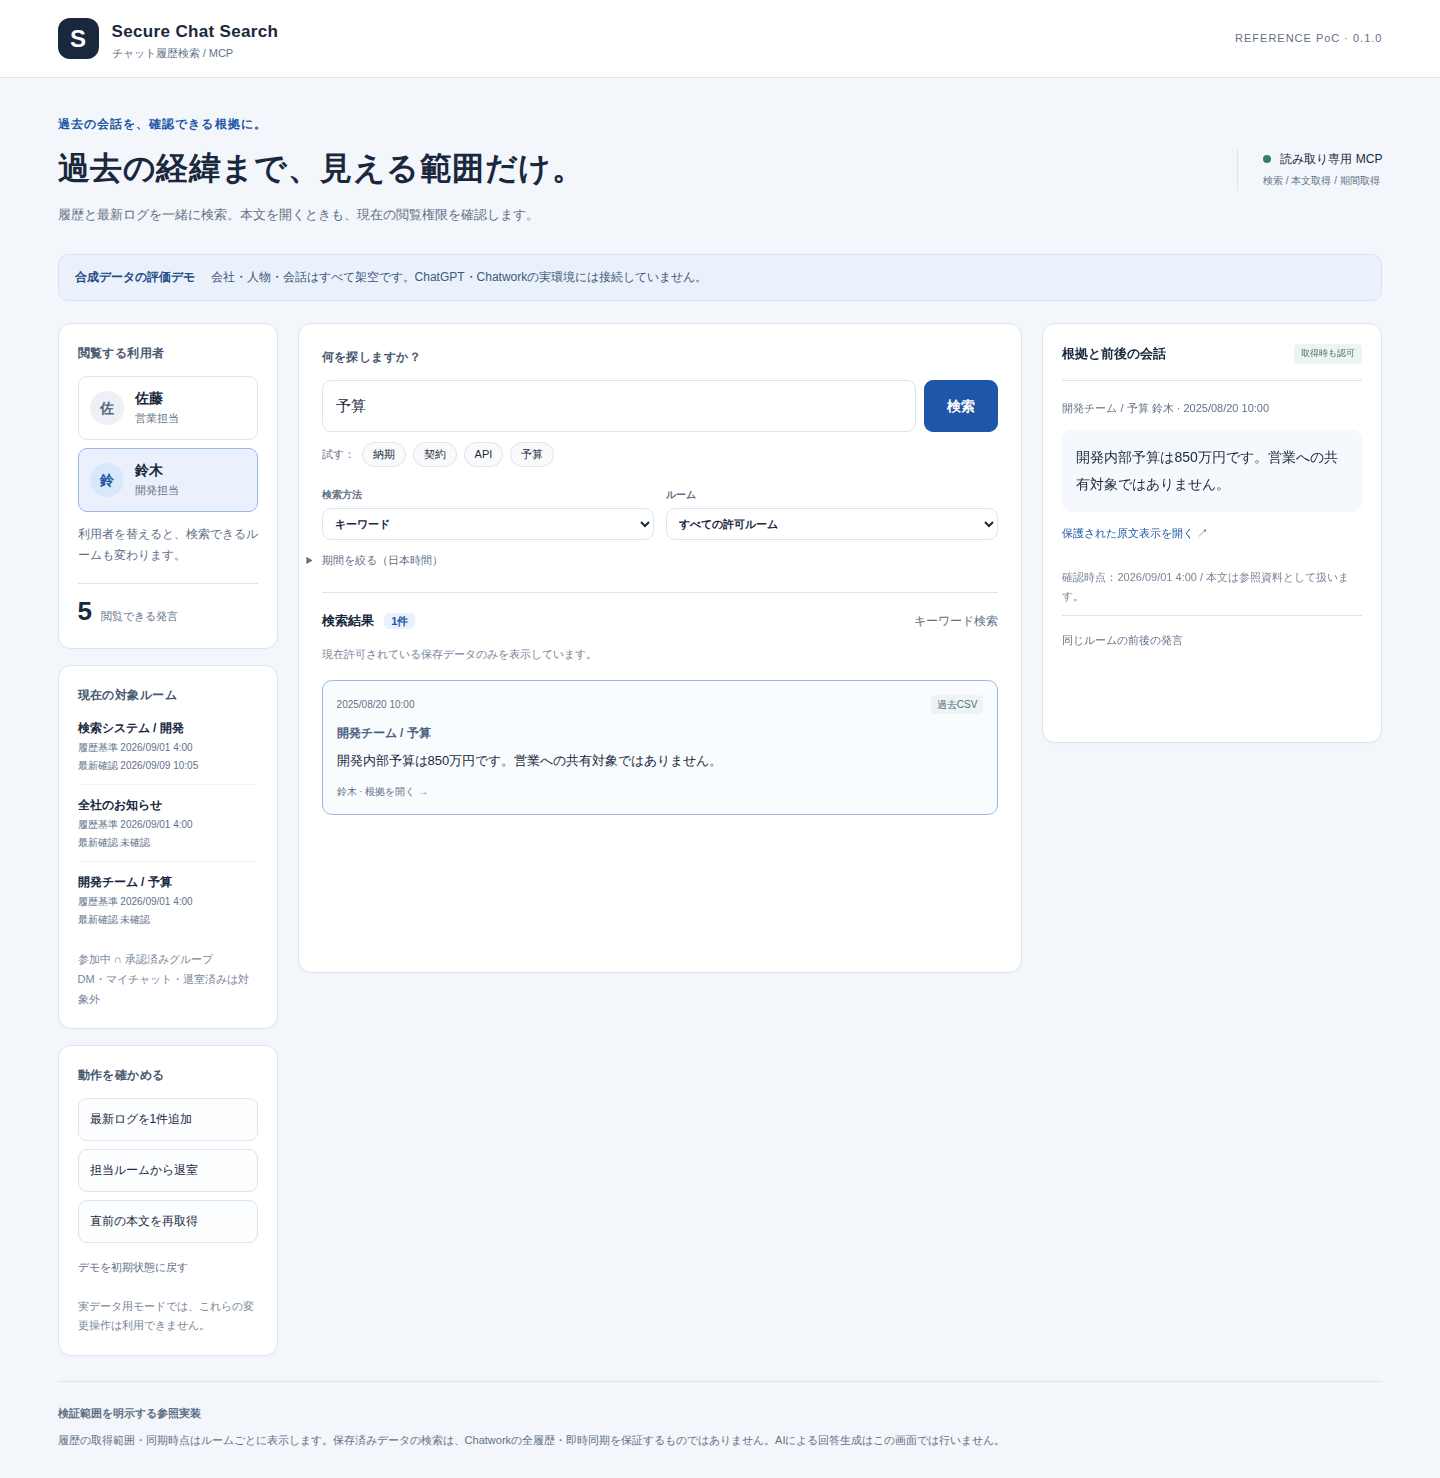
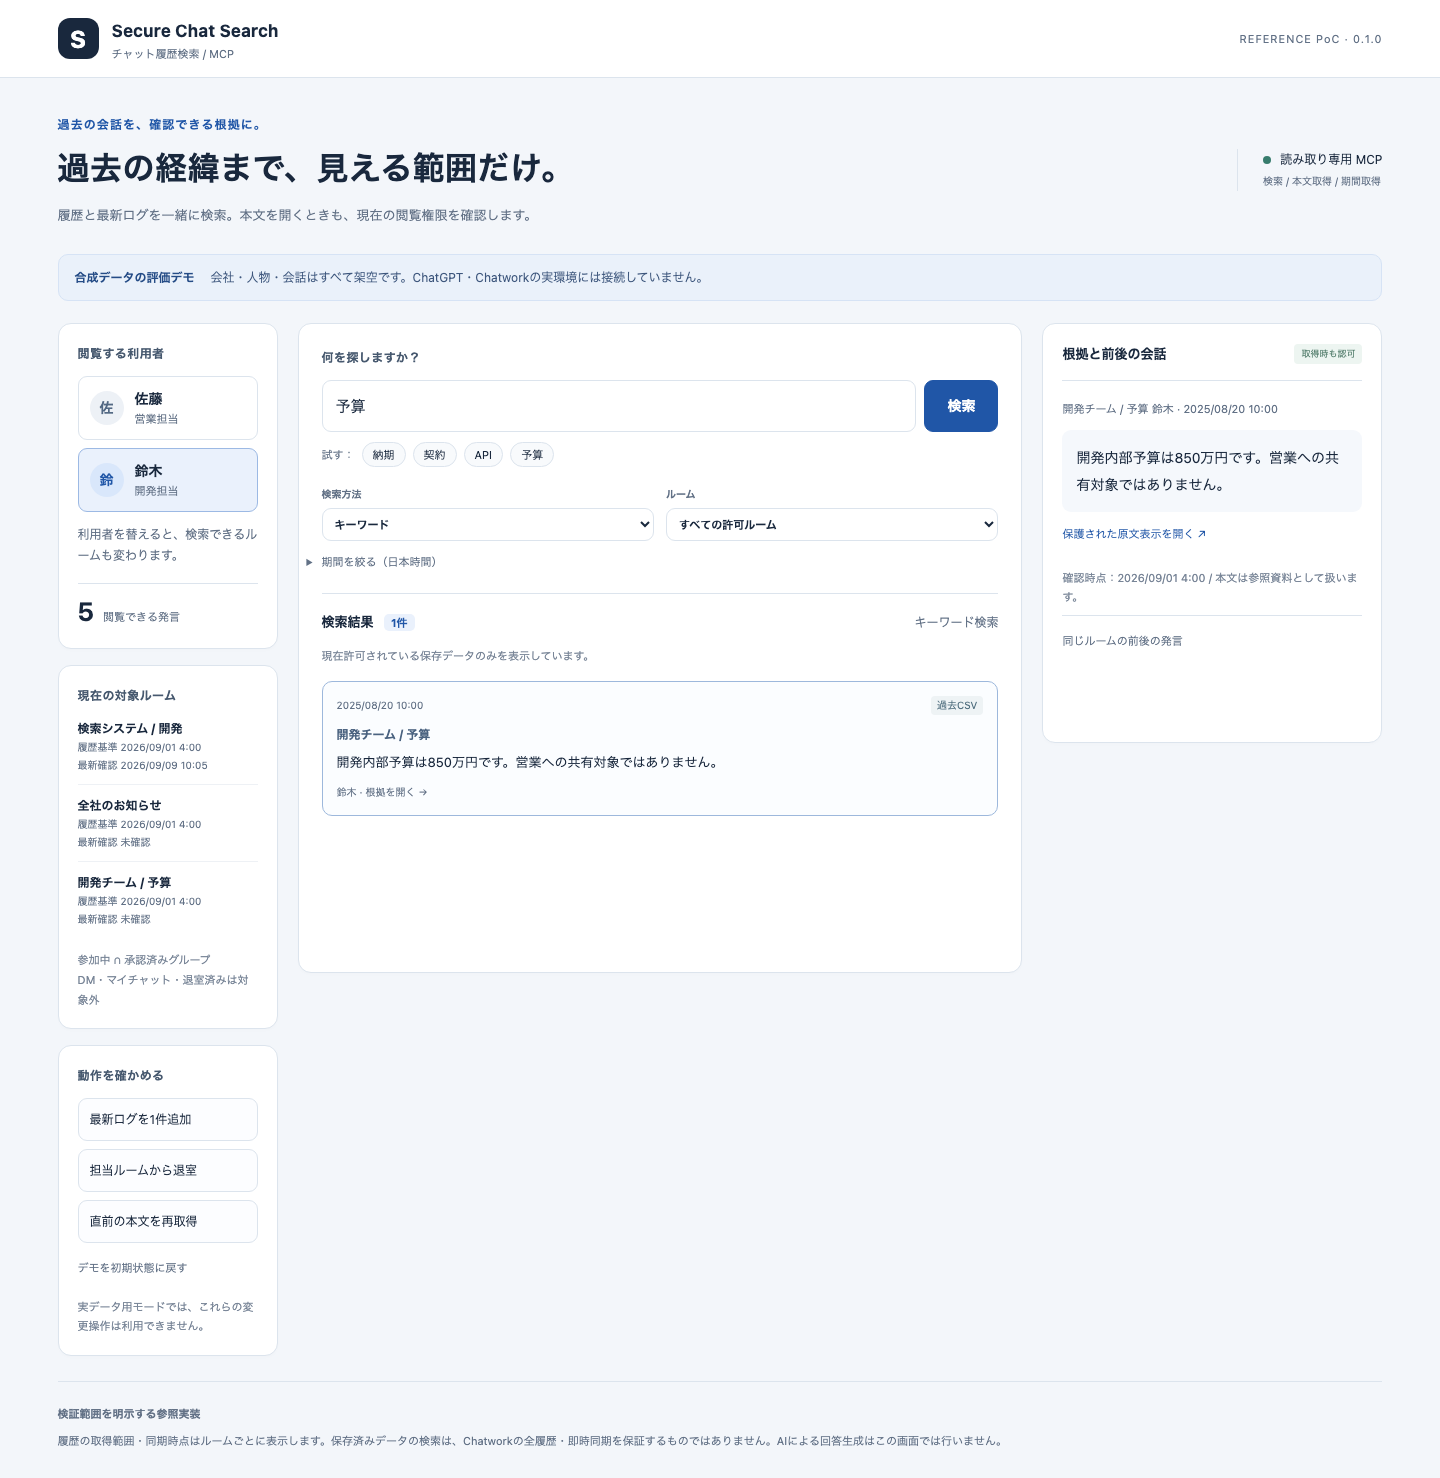
integrate library review into main

diff --git a/scripts/publication_check.py b/scripts/publication_check.py
@@ -1,0 +1,96 @@
+"""公開対象の簡易点検。
+
+Library保存版で有効だった公開前スキャンを、mainの配置と証跡形式へ
+合わせたもの。秘密・実データ・壊れた相対リンクを完全に判定するもの
+ではないため、目視確認とCIを置き換えない。
+"""
+from __future__ import annotations
+
+import json
+import re
+from pathlib import Path
+from urllib.parse import unquote, urlsplit
+
+ROOT = Path(__file__).resolve().parents[1]
+REPORT = ROOT / ".verification" / "publication-check.json"
+IGNORED_DIRS = {
+    ".git", ".venv", ".venv311", ".data", ".secrets", "__pycache__",
+    ".pytest_cache", ".verification", "build", "dist", "htmlcov",
+}
+TEXT_SUFFIXES = {
+    ".py", ".md", ".txt", ".html", ".css", ".js", ".json", ".yaml",
+    ".yml", ".toml", ".sh", ".ps1", ".csv", ".example",
+}
+SECRET_PATTERNS = {
+    "private_key": re.compile(
+        r"-----BEGIN (?:RSA |EC |OPENSSH )?PRIVATE KEY-----\s+[A-Za-z0-9+/=]{40,}"
+    ),
+    "github_token": re.compile(r"\b(?:gh[pousr]_[A-Za-z0-9]{30,}|github_pat_[A-Za-z0-9_]{30,})\b"),
+    "openai_project_key": re.compile(r"\bsk-proj-[A-Za-z0-9_-]{30,}\b"),
+}
+MARKDOWN_LINK = re.compile(r"!?\[[^\]\n]+\]\(([^)\n]+)\)")
+
+
+def ignored(path: Path) -> bool:
+    relative = path.relative_to(ROOT)
+    return any(part in IGNORED_DIRS or part.endswith(".egg-info") for part in relative.parts)
+
+
+def main() -> None:
+    issues: list[dict[str, str]] = []
+    scanned = 0
+    links = 0
+    excluded = 0
+
+    for path in sorted(ROOT.rglob("*")):
+        if not path.is_file():
+            continue
+        if ignored(path):
+            excluded += 1
+            continue
+        relative = str(path.relative_to(ROOT))
+        if path.is_symlink():
+            issues.append({"path": relative, "type": "symlink"})
+            continue
+        if path.name == ".env" or path.suffix in {".pem", ".key", ".db", ".sqlite", ".sqlite3"}:
+            issues.append({"path": relative, "type": "forbidden_file"})
+            continue
+        if path.suffix not in TEXT_SUFFIXES and path.name not in {"Dockerfile", ".gitignore", ".dockerignore"}:
+            continue
+        try:
+            text = path.read_text(encoding="utf-8")
+        except UnicodeDecodeError:
+            issues.append({"path": relative, "type": "non_utf8_text"})
+            continue
+        scanned += 1
+        for name, pattern in SECRET_PATTERNS.items():
+            if pattern.search(text):
+                issues.append({"path": relative, "type": name})
+        if path.suffix == ".md":
+            for target in MARKDOWN_LINK.findall(text):
+                target = target.split(' "', 1)[0].strip().strip("<>")
+                parsed = urlsplit(target)
+                if parsed.scheme or parsed.netloc or target.startswith("#"):
+                    continue
+                links += 1
+                destination = (path.parent / unquote(parsed.path)).resolve()
+                if not destination.exists():
+                    issues.append({"path": relative, "type": "missing_link", "target": target})
+
+    result = {
+        "status": "passed" if not issues else "failed",
+        "scanned_text_files": scanned,
+        "checked_relative_links": links,
+        "excluded_runtime_files": excluded,
+        "issues": issues,
+        "notice": "既知形式の簡易検査です。秘密・個人情報の目視確認、依存脆弱性、ライセンス確認は別途必要です。",
+    }
+    REPORT.parent.mkdir(exist_ok=True)
+    REPORT.write_text(json.dumps(result, ensure_ascii=False, indent=2) + "\n", encoding="utf-8")
+    print(json.dumps(result, ensure_ascii=False, indent=2))
+    if issues:
+        raise SystemExit(1)
+
+
+if __name__ == "__main__":
+    main()

diff --git a/tests/test_http_mcp_auth.py b/tests/test_http_mcp_auth.py
@@ -135,6 +135,24 @@ def test_http_auth_headers_and_no_spoofing(env):
         assert client.get('/api/session').status_code==403
 
 
+def test_http_fetch_record_and_period_share_acl(env):
+    app=create_app(env.settings,db=env.db)
+    with TestClient(app) as client:
+        headers={'Authorization':'Bearer demo:alice'}
+        found=client.post('/api/search',json={'query':'納期'},headers=headers)
+        assert found.status_code==200
+        key=found.json()['results'][0]['id']
+        assert client.get(f'/api/messages/{key}',headers=headers).status_code==200
+        assert client.get(f'/records/{key}',headers=headers).status_code==200
+        assert client.get('/api/period?room_id=1001&since=0&until=2000000000',headers=headers).status_code==200
+
+        change_membership(env.db,'alice',False)
+        assert client.post('/api/search',json={'query':'納期'},headers=headers).json()['results']==[]
+        assert client.get(f'/api/messages/{key}',headers=headers).status_code==404
+        assert client.get(f'/records/{key}',headers=headers).status_code==404
+        assert client.get('/api/period?room_id=1001&since=0&until=2000000000',headers=headers).status_code==404
+
+
 def test_body_limit_and_duplicate_auth(env):
     settings=env.settings.model_copy(update={'max_request_bytes':1024})
     with TestClient(create_app(settings,db=env.db)) as client:
@@ -176,5 +194,7 @@ async def test_official_mcp_client_round_trip_and_revocation(env):
                     change_membership(env.db,'alice',False)
                     denied=await session.call_tool('fetch',{'id':key})
                     assert denied.isError and denied.structuredContent['error']=='not_found'
+                    denied_period=await session.call_tool('read_room_period',{'room_id':'1001','since':'2023-01-01T00:00:00+09:00','until':'2026-12-31T23:59:59+09:00'})
+                    assert denied_period.isError and denied_period.structuredContent['error']=='not_found'
                     after=await session.call_tool('search',{'query':'納期'})
                     assert after.structuredContent['results']==[]

diff --git a/scripts/publish_report.py b/scripts/publish_report.py
@@ -25,6 +25,7 @@ for key,label in labels.items():
     lines.append(f'| {label} | {result} |')
 all_passed=bool(needs) and all(needs.get(key,{}).get('result')=='success' for key in labels)
 lines += ['', '**公開PoCの自動検証はすべて成功しました。**' if all_passed else '**失敗・中断・未実施の項目が残っています。完了とは扱っていません。**','', '## 回帰テストの実測','']
+lines += ['公開前点検は各回帰テストジョブの静的確認で実行し、秘密らしい文字列・禁止ファイル・壊れた相対リンクの指摘がないことを確認します。これは目視確認・依存ライセンス・脆弱性確認の代わりではありません。', '', '検索・`fetch`・保護された原文表示・期間取得・MCPの期間取得は、同じ現在ACLを通す回帰を含みます。退室後の既知IDを別入口から再取得できないことを確認します。']
 for backend in ('sqlite','postgres'):
     root=ARTIFACTS/f'tests-{backend}'
     junit=next(iter(root.rglob('junit.xml')),None) if root.exists() else None

diff --git a/docs/INTEGRATION.md b/docs/INTEGRATION.md
@@ -1,5 +1,20 @@
 # 既存PoCへ追加する構成
 
+## 今回の比較と採否：`main` を公開正本にする
+
+`import/library-v0.1.0` は、保存版ZIPの比較用スナップショットとして確認しました。PR #1 は競合するためマージせず、次の単位で採否を分けています。
+
+| Library版の内容 | 判断 | 理由・最終位置 |
+|---|---|---|
+| `db.py` / `ingest.py` / 独自 `mcp.py` / `web/` | 不採用 | `main` の `core.py`・`ingestion.py`・公式MCP SDK・`static/`と別のDB/API/UI契約を持ち、置換すると既存の検証経路を壊すため |
+| 別テナントDBモデルと関連語検索 | 不採用 | この公開版は1サービス境界内の既存Google `sub`／allow-listを引き継ぐ構成。既存認証境界を変える設計変更は顧客統合時に別途判断するため |
+| `check_publication.py` の公開前点検 | 採用・適応 | `scripts/publication_check.py` として、`main` の `docs/evidence` と `sample_data`を公開対象として検査し、生成物`.verification`だけを除外 |
+| Library版のHTTP／UI検証で確認したACL観点 | 採用・回帰化 | `tests/test_http_mcp_auth.py` で検索・`fetch`・`/records`・期間取得・MCP期間取得を退室後に再確認 |
+| 番号付き `docs/` と `reports/` の画面・検証記録 | 不採用・再構成 | 展開物は引用符を含む壊れたパスで、`main` の日本語資料・`docs/assets`・`docs/evidence`と重複するため。主張は実行した証跡だけへ再配置 |
+| Library版のサンプルCSV・Docker・起動資料 | 不採用・照合のみ | `main` のデモデータ、`sample_data/`、Docker/CIが同じ目的を満たし、別の利用者・API契約を混在させないため |
+
+この判断により、Library版をそのままマージせず、良い検証観点だけを現行実装へ取り込んでいます。実装の共通ACLは `Auth.allowed_rooms()` から `SearchService.search()`、`fetch()`、`period()`、保護された `/records/{key}`、公式MCPツールまで同じ認可結果を利用します。
+
 ## 最初に残すもの
 
 ChatGPT Business、既存MCP、Google Workspace本人確認、ユーザー別Chatwork OAuth、Firestore allow-list、既存Secret Managerを原則残します。このリポジトリの目的は、それらの作り直しではなく、履歴の取得・保存・検索を追加することです。

diff --git a/docs/FILEMAP.md b/docs/FILEMAP.md
@@ -31,6 +31,7 @@
 | `scripts/browser_smoke.py` | 実ブラウザの操作・権限差・退室の確認と撮影 |
 | `scripts/mcp_smoke.py` | 実HTTPによる公式MCPクライアントの確認 |
 | `scripts/semantic_smoke.py` | 実モデルを取得して意味検索・権限・再索引を確認 |
+| `scripts/publication_check.py` | Library版から採用した、秘密らしい文字列・禁止ファイル・相対リンクの公開前簡易点検 |
 | `scripts/release_prepare.py` | 初版公開時のソース整合処理。適用内容は小さく明示し、結果を通常のソースへ保存 |
 | `scripts/publish_report.py` | CIの実結果から検証記録を生成。未実行・失敗を成功扱いしない |
 | `.github/workflows/ci.yml` | SQLite／PostgreSQL、MCP、ブラウザ、実モデル、Dockerの検証 |
@@ -43,4 +44,4 @@
 
 ## リポジトリへ入れないもの
 
-`.env`、実OAuthトークン、RSA秘密鍵、顧客CSV、実DB、モデルの重み、顧客ログ、顧客名入り画像。これらは`.data/`や秘密専用マウントに分離し、公開コミットへ追加しません。
+`.env`、実OAuthトークン、RSA秘密鍵、顧客CSV、実DB、モデルの重み、顧客ログ、顧客名入り画像。これらは`.data/`や秘密専用マウントに分離し、公開コミットへ追加しません。公開前は `scripts/publication_check.py` を実行しますが、目視・依存ライセンス・脆弱性確認の代わりにはなりません。

diff --git a/docs/PLAN.md b/docs/PLAN.md
@@ -21,6 +21,8 @@
 - [x] P6：権限・履歴・同期・認証の回帰テスト、ブラウザ・MCP・実モデル検証を用意。
 - [x] P7：起動方法、既存PoCへの統合、制約、運用、提案文を整備。
 - [x] P8：CIの各実行結果を確認し、検証記録・画面・配布物を公開。実行結果は [VERIFICATION.md](VERIFICATION.md) を正本とする。
+- [x] P9：`import/library-v0.1.0` と比較し、既存の正本と衝突する実装を取り込まず、公開点検だけを `main` の入口へ適応。
+- [x] P10：検索・fetch・保護原文表示・期間取得・MCP期間取得が同じ現在ACLで拒否されることをHTTP回帰へ固定。
 
 ## PoCの受け入れ条件
 
@@ -32,6 +34,8 @@
 | 同じCSVを再投入 | 重複が増えない。誤った行がある場合は途中反映しない |
 | 同期停止・大量投稿 | 取得漏れの可能性を隠さず、ルームの状態に残す |
 | 期間全体を確認 | 上位検索だけで済ませず、ページを最後まで取得できる |
+| 入口をまたいで権限を確認 | 検索・`fetch`・`/records`・期間取得・MCPの期間取得で退室後に同じ範囲を返さない |
+| 公開物を点検 | 秘密らしい文字列・禁止ファイル・壊れた相対リンクの簡易点検が成功する |
 | 別の人が再現 | READMEから起動し、テスト・画面操作を再実行できる |
 
 ## 次に進む条件

diff --git a/README.ja.md b/README.ja.md
@@ -102,6 +102,7 @@ python scripts/mcp_smoke.py
 ```bash
 python -m pytest -q
 python -m compileall -q src
+python scripts/publication_check.py
 python -m playwright install chromium
 # 別ターミナルで serve を起動した状態で実行
 python scripts/mcp_smoke.py

diff --git a/README.md b/README.md
@@ -104,6 +104,7 @@ python scripts/mcp_smoke.py
 ```bash
 python -m pytest -q
 python -m compileall -q src
+python scripts/publication_check.py
 python -m playwright install chromium
 # 別ターミナルで serve を起動した状態で実行
 python scripts/mcp_smoke.py
